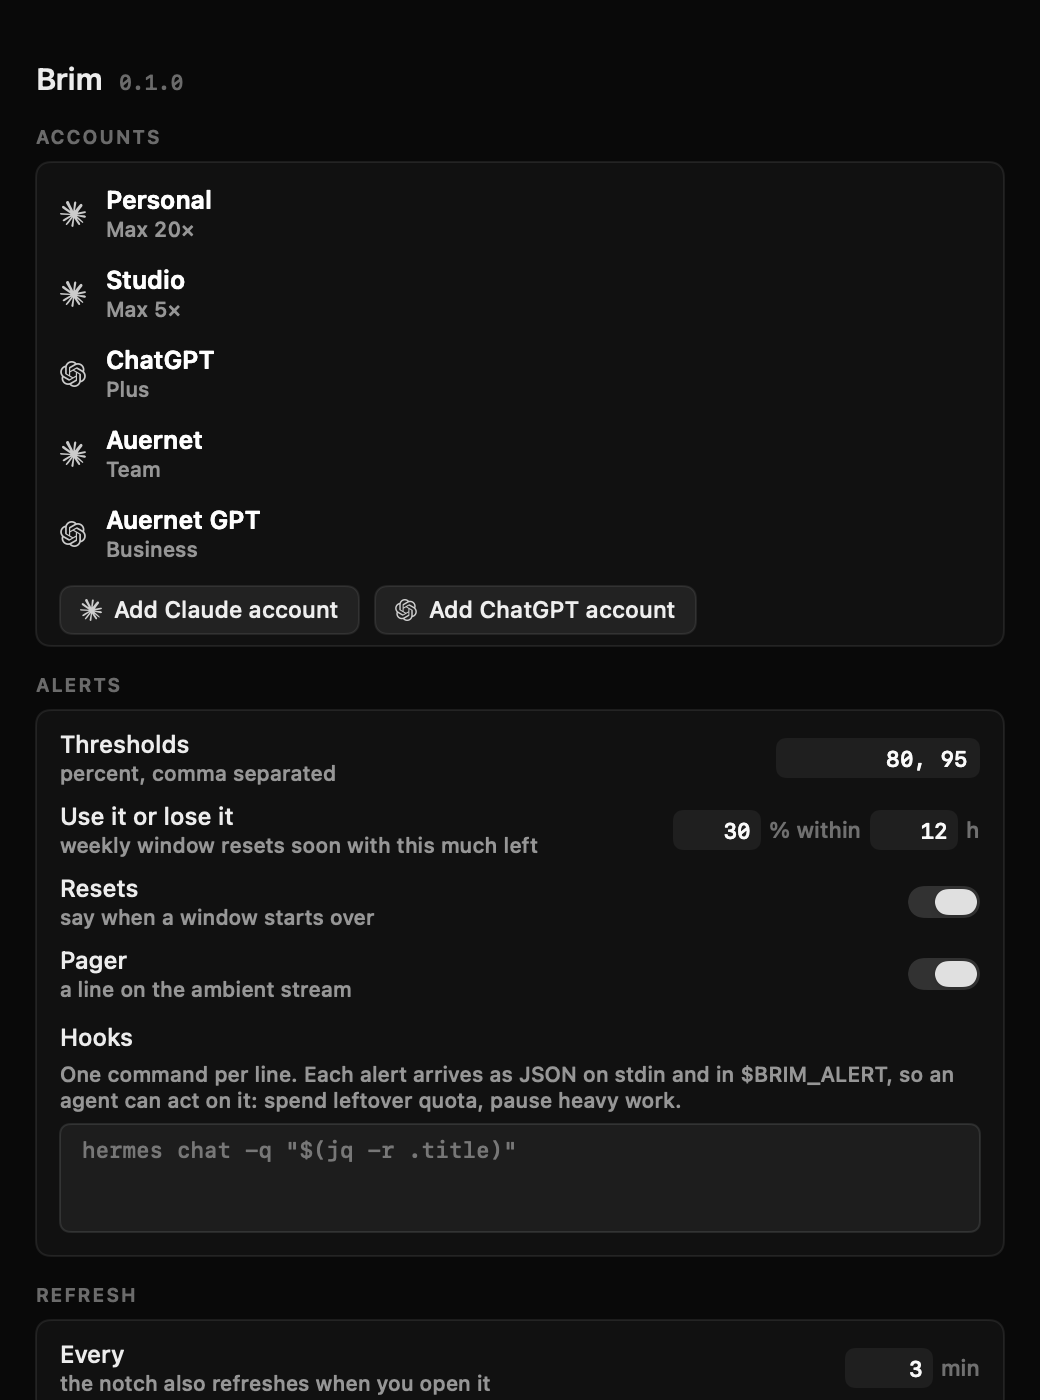
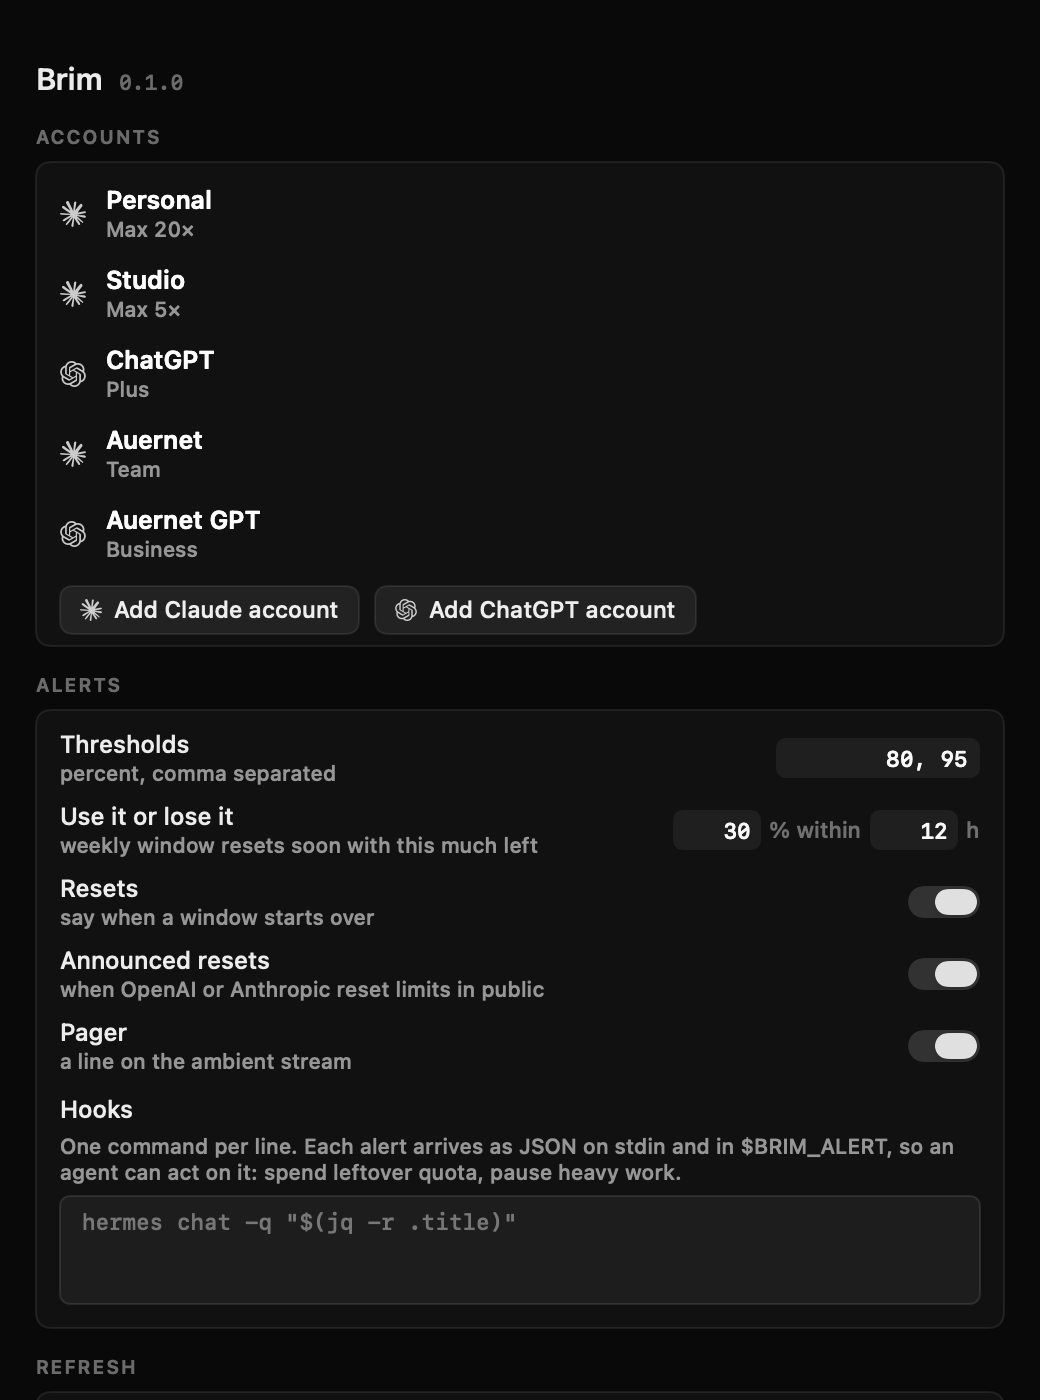
announced resets via resets.albastov.com

diff --git a/src/NotchView.swift b/src/NotchView.swift
@@ -37,8 +37,9 @@ final class NotchModel: ObservableObject {
 
     var collapsedSize: CGSize { CGSize(width: notchWidth + 2 * Self.wing, height: notchHeight) }
 
-    func openSize(rows: Int) -> CGSize {
-        let body = rows == 0 ? 64 : 20 + CGFloat(rows) * Self.rowHeight + 12
+    func openSize(rows: Int, footer: Bool = false) -> CGSize {
+        var body = rows == 0 ? 64 : 20 + CGFloat(rows) * Self.rowHeight + 12
+        if footer { body += 22 }
         return CGSize(width: max(Self.openWidth, notchWidth + 2 * Self.wing + 40), height: notchHeight + body)
     }
 }
@@ -81,7 +82,7 @@ struct NotchView: View {
     private var flashing: Bool { store.flash != nil && !model.open }
 
     private var size: CGSize {
-        if model.open { return model.openSize(rows: rows.count) }
+        if model.open { return model.openSize(rows: rows.count, footer: store.announcement != nil) }
         var s = model.collapsedSize
         if flashing { s.height += NotchModel.flashHeight; s.width = max(s.width, 360) }
         return s
@@ -173,6 +174,9 @@ struct NotchView: View {
                         }
                 }
             }
+            if let an = store.announcement {
+                Announced(item: an, now: store.now).frame(height: 22).padding(.horizontal, 16).offset(y: -4)
+            }
         }
     }
 
@@ -181,6 +185,29 @@ struct NotchView: View {
         guard let latest else { return "" }
         let s = store.now.timeIntervalSince(latest)
         return s < 60 ? "updated just now" : "updated \(Fmt.duration(s)) ago"
+    }
+}
+
+/// "OpenAI announced: Codex usage limits reset · 3h ago" — public resets, from resets.albastov.com.
+struct Announced: View {
+    let item: Announcement
+    let now: Date
+
+    var body: some View {
+        Button {
+            if let u = item.url.flatMap(URL.init(string:)) { NSWorkspace.shared.open(u) }
+        } label: {
+            HStack(spacing: 0) {
+                Circle().fill(Theme.accent).frame(width: 4, height: 4).frame(width: 13)
+                Text(item.summary).foregroundStyle(Theme.dim).lineLimit(1).padding(.leading, 8)
+                Spacer(minLength: 6)
+                Text("announced \(Fmt.duration(now.timeIntervalSince(item.at))) ago").font(Theme.num(10)).foregroundStyle(Theme.faint)
+            }
+            .font(Theme.ui(10.5))
+            .contentShape(Rectangle())
+        }
+        .buttonStyle(.plain)
+        .help("Announced in public. Opens the post.")
     }
 }
 

diff --git a/src/Store.swift b/src/Store.swift
@@ -11,6 +11,8 @@ final class Store: ObservableObject {
     /// A line shown under the notch for a few seconds (alerts, sign-in results).
     @Published var flash: Flash?
     @Published var now = Date()
+    /// Latest publicly announced reset, if recent.
+    @Published var announcement: Announcement?
 
     private var fired: Set<String> = []
     private var timer: Timer?
@@ -120,6 +122,23 @@ final class Store: ObservableObject {
         JSON.save(Array(usage.values), Paths.usage)
         refreshing = false
         for a in newAlerts { fire(a) }
+        if settings.announcements { await checkAnnouncements(now: now) }
+    }
+
+    /// Picks up resets OpenAI / Anthropic announce in public, via resets.albastov.com.
+    func checkAnnouncements(now: Date) async {
+        guard let o = try? await HTTP.json(URLRequest(url: URL(string: "https://resets.albastov.com/api/resets?limit=5")!)) else { return }
+        let list = Announcement.parse(o).sorted { $0.at > $1.at }
+        announcement = list.first.flatMap { now.timeIntervalSince($0.at) < 48 * 3600 ? $0 : nil }
+        let firstRun = !fired.contains { $0.hasPrefix("ann:") }
+        for a in list where !fired.contains("ann:\(a.id)") {
+            // On the very first run just remember what's there; only new ones are news.
+            if firstRun || now.timeIntervalSince(a.at) > 6 * 3600 { fired.insert("ann:\(a.id)"); continue }
+            fire(Alert(kind: .announced, accountId: "", account: a.provider == .claude ? "Anthropic" : "OpenAI",
+                       provider: a.provider, window: nil, percent: nil, resetsAt: nil,
+                       title: a.summary, key: "ann:\(a.id)", at: now))
+        }
+        JSON.save(Array(fired), Paths.fired)
     }
 
     // MARK: alerts
@@ -225,7 +244,7 @@ struct Flash: Equatable {
         text = a.title
         provider = a.provider
         switch a.kind {
-        case .reset, .credits, .leftover: tone = .accent
+        case .reset, .credits, .leftover, .announced: tone = .accent
         case .threshold: tone = (a.percent ?? 0) >= 100 ? .bad : (a.percent ?? 0) >= 85 ? .warn : .accent
         case .auth: tone = .warn
         }

diff --git a/src/Model.swift b/src/Model.swift
@@ -112,6 +112,8 @@ struct Settings: Codable, Equatable {
     var pager: Bool = true
     /// Which display gets the notch: "auto" = the built-in one with a notch, else main.
     var display: String = "auto"
+    /// Watch resets.albastov.com for announced resets (OpenAI / Anthropic posting "limits reset").
+    var announcements: Bool = true
 
     init() {}
 
@@ -126,13 +128,14 @@ struct Settings: Codable, Equatable {
         hooks = (try? c.decode([String].self, forKey: .hooks)) ?? z.hooks
         pager = (try? c.decode(Bool.self, forKey: .pager)) ?? z.pager
         display = (try? c.decode(String.self, forKey: .display)) ?? z.display
+        announcements = (try? c.decode(Bool.self, forKey: .announcements)) ?? z.announcements
     }
 }
 
 // MARK: - Alerts
 
 struct Alert: Codable, Equatable {
-    enum Kind: String, Codable { case threshold, leftover, reset, credits, auth }
+    enum Kind: String, Codable { case threshold, leftover, reset, credits, auth, announced }
     var kind: Kind
     var accountId: String
     var account: String
@@ -306,5 +309,23 @@ func log(_ s: String) {
         h.seekToEndOfFile(); h.write(line.data(using: .utf8)!); try? h.close()
     } else {
         FileManager.default.createFile(atPath: Paths.log.path, contents: line.data(using: .utf8))
+    }
+}
+
+/// A reset announced in public (from resets.albastov.com).
+struct Announcement: Codable, Equatable, Identifiable {
+    var id: String
+    var provider: Provider
+    var summary: String
+    var url: String?
+    var at: Date
+
+    static func parse(_ o: [String: Any]) -> [Announcement] {
+        ((o["resets"] as? [[String: Any]]) ?? []).compactMap { r in
+            guard let id = r["id"] as? String, let s = r["summary"] as? String,
+                  let at = ((r["posted_at"] as? String) ?? (r["detected_at"] as? String)).flatMap(JSON.parseDate) else { return nil }
+            let p: Provider = (r["provider"] as? String) == "anthropic" ? .claude : .codex
+            return Announcement(id: id, provider: p, summary: s, url: r["source_url"] as? String, at: at)
+        }
     }
 }

diff --git a/src/SettingsView.swift b/src/SettingsView.swift
@@ -66,6 +66,11 @@ struct SettingsView: View {
                                                      set: { store.settings.alertOnReset = $0; store.saveSettings() }))
                                 .toggleStyle(.switch).controlSize(.mini).labelsHidden()
                         }
+                        SettingRow(name: "Announced resets", hint: "when OpenAI or Anthropic reset limits in public") {
+                            Toggle("", isOn: Binding(get: { store.settings.announcements },
+                                                     set: { store.settings.announcements = $0; store.saveSettings() }))
+                                .toggleStyle(.switch).controlSize(.mini).labelsHidden()
+                        }
                         SettingRow(name: "Pager", hint: Store.pagerPath == nil ? "pager isn't installed" : "a line on the ambient stream") {
                             Toggle("", isOn: Binding(get: { store.settings.pager },
                                                      set: { store.settings.pager = $0; store.saveSettings() }))

diff --git a/src/NotchController.swift b/src/NotchController.swift
@@ -93,7 +93,7 @@ final class NotchController {
     /// The black shape's current rect in screen coordinates.
     private func shapeRect(open: Bool) -> NSRect {
         guard let s = screen() else { return .zero }
-        let size = open ? model.openSize(rows: store.visible.count) : model.collapsedSize
+        let size = open ? model.openSize(rows: store.visible.count, footer: store.announcement != nil) : model.collapsedSize
         let w = size.width - 2 * NotchModel.topRadius
         return NSRect(x: s.frame.midX - w / 2, y: s.frame.maxY - size.height, width: w, height: size.height)
     }

diff --git a/src/Snapshot.swift b/src/Snapshot.swift
@@ -77,6 +77,8 @@ enum Snapshot {
             s.usage[id] = Usage(accountId: id, fetchedAt: now.addingTimeInterval(-50),
                                 windows: [w(.session, r.3, r.4), w(.weekly, r.5, r.6)], plan: r.2, resetCredits: r.7)
         }
+        s.announcement = Announcement(id: "x", provider: .codex, summary: "Codex usage limits reset", url: nil,
+                                      at: now.addingTimeInterval(-3 * 3600))
         return s
     }
 }
